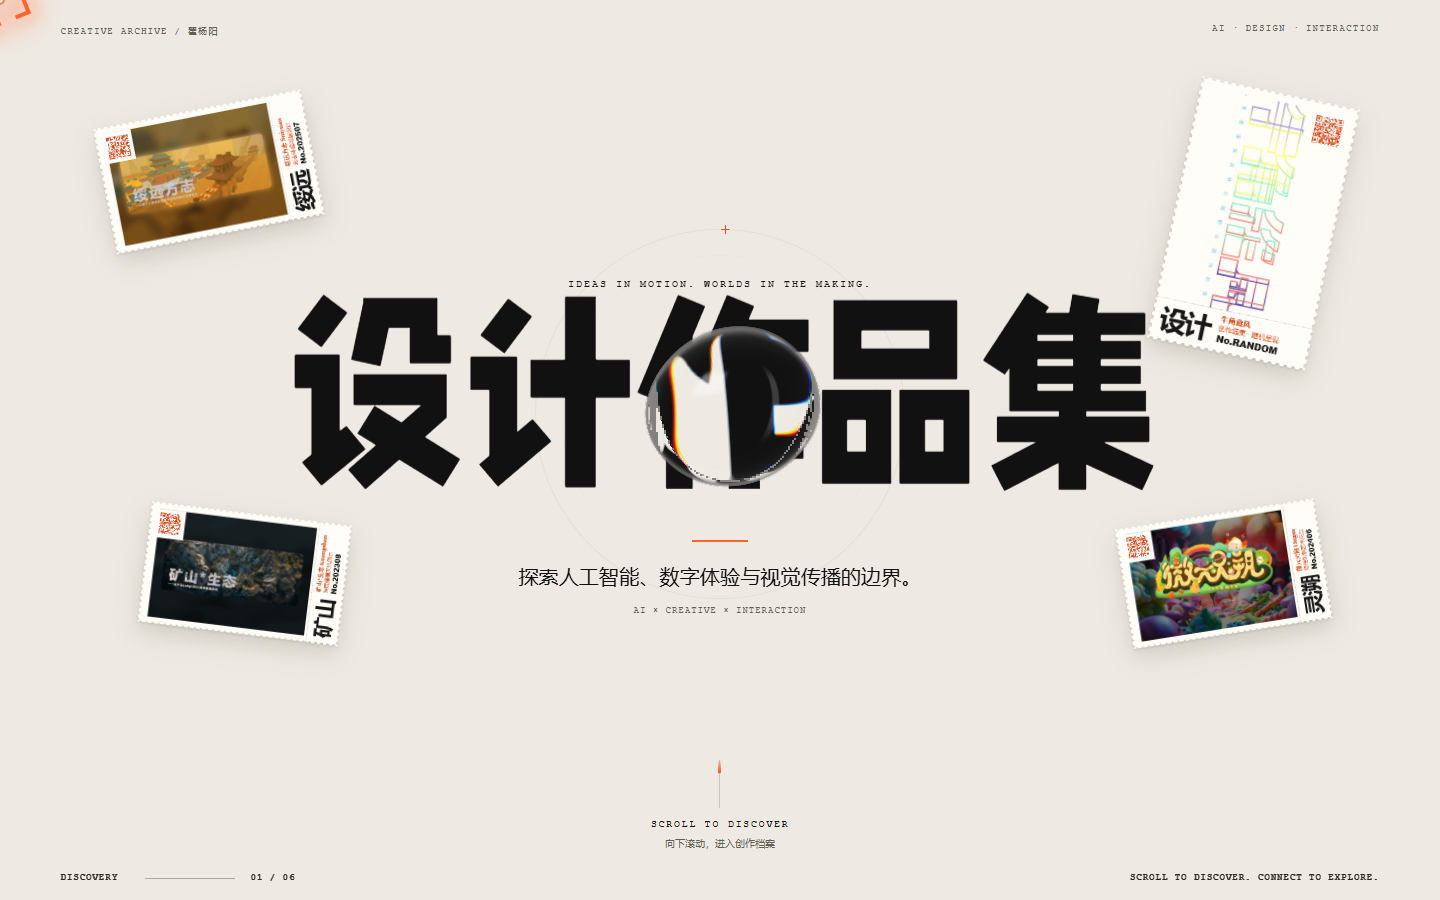
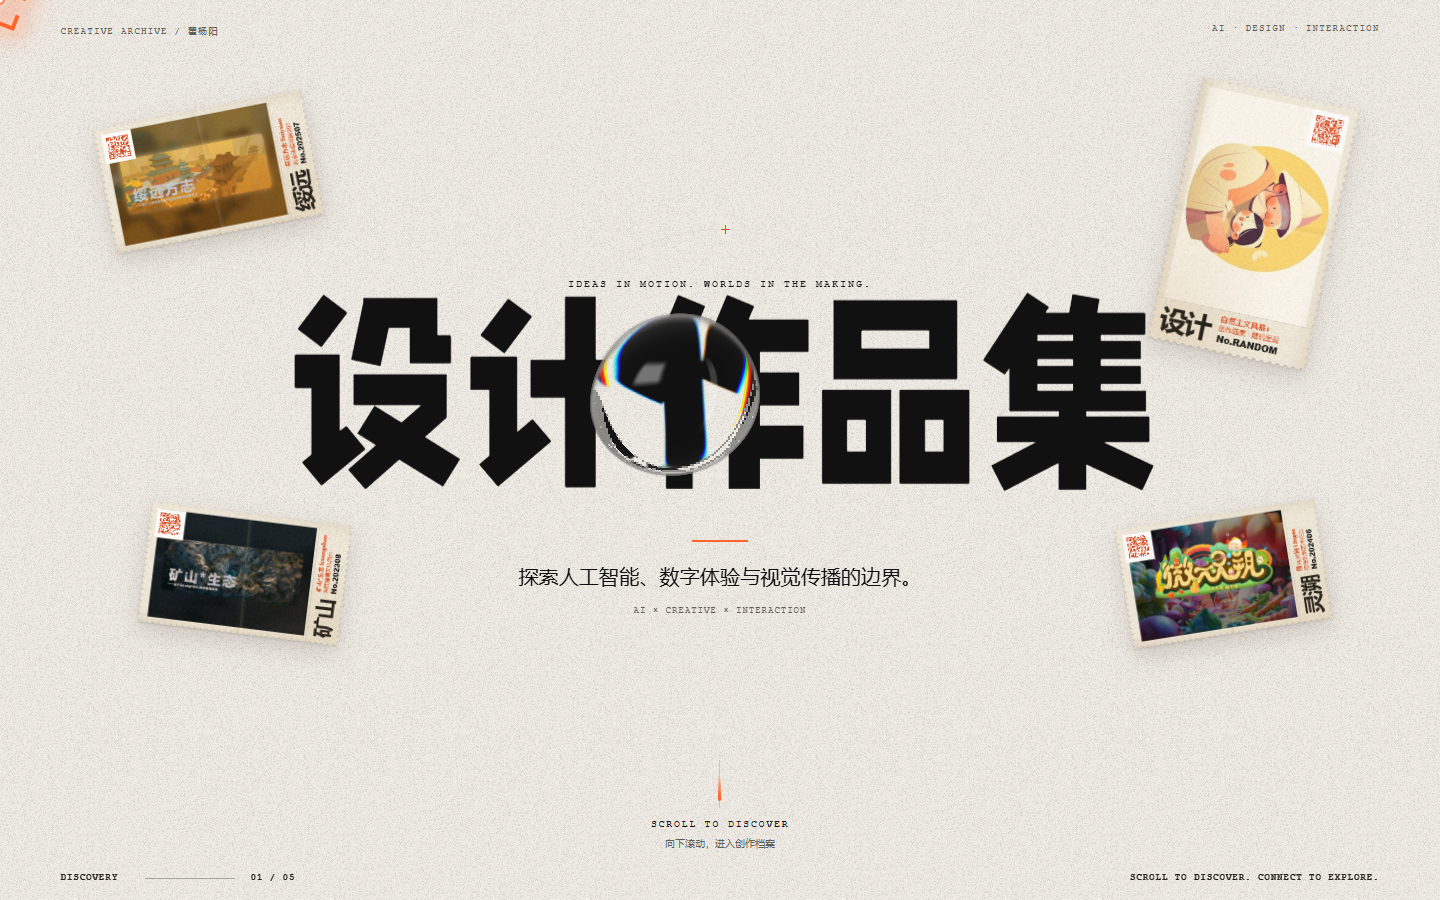
颗粒优化

diff --git a/New/css/background-grain.css b/New/css/background-grain.css
@@ -1,7 +1,39 @@
 /* Grainient's fine-grain pass, baked once rather than redrawn every frame.
    Background painting keeps all text, media and hit targets above the texture. */
-html body :is(.hero-landing, .about, .about-flowing-fields, .journey, .works, .contact) {
+html body :is(
+  .hero-landing, .about, .about-portal, .about-flowing-fields,
+  .flowing-menu, .flowing-menu__item, .flowing-menu__float, .flowing-menu__band,
+  .journey, .journey-overview, .journey-certificate,
+  .works, .work-graph--story .graph-stage, .graph-detail, .graph-detail-link, .graph-mobile-items button,
+  .archive-node-disc, .archive-node strong,
+  .contact, .contact-methods a, .contact-methods button,
+  .showcase--embedded, .site-header
+) {
   background-image: url('../assets/background-grain.png');
   background-size: 256px 256px;
   background-repeat: repeat;
+}
+
+/* The grain follows each clipped paper piece, including the detached stub.
+   A transparent print patina adds wear without replacing the source artwork. */
+.artwork-ticket .tear-ticket__paper {
+  background-color: #f5eddc;
+  background-image: url('../assets/background-grain.png');
+  background-size: 180px 180px;
+}
+.artwork-ticket .tear-ticket__paper::after {
+  content: '';
+  position: absolute;
+  inset: 0;
+  z-index: 2;
+  pointer-events: none;
+  background-image:
+    url('../assets/background-grain.png'),
+    linear-gradient(94deg, #82572420, transparent 12%, transparent 89%, #82572418),
+    radial-gradient(ellipse at 12% 92%, #aa783322, transparent 48%),
+    linear-gradient(178deg, transparent 47%, #795c1612 49.5%, #fff9e51c 50%, transparent 52%);
+  background-size: 180px 180px, 100% 100%, 100% 100%, 100% 100%;
+}
+.hero-card:nth-child(even) .tear-ticket__paper::after {
+  background-position: 73px 41px, center, center, center;
 }

diff --git a/New/js/tests/background-grain.spec.ts b/New/js/tests/background-grain.spec.ts
@@ -7,8 +7,8 @@ for (const width of [375, 1440]) {
     await page.goto('/Portfolio-YoungSliker/New/#contact');
     const contact = page.locator('#contact');
     await contact.scrollIntoViewIfNeeded();
-    for (const selector of ['.hero-landing', '#about', '#journey', '#works', '#contact']) {
-      await expect(page.locator(selector)).toHaveCSS('background-image', /background-grain.*png/);
+    for (const selector of ['.hero-landing', '#about', '.about-portal', '.flowing-menu', '.site-header', '#journey', '#works', '#contact', '.contact-methods a']) {
+      await expect(page.locator(selector).first()).toHaveCSS('background-image', /background-grain.*png/);
     }
     const loaded = await contact.evaluate(async element => {
       const url = getComputedStyle(element).backgroundImage.slice(5, -2);
@@ -24,5 +24,16 @@ for (const width of [375, 1440]) {
     await page.getByRole('button', { name: /浏览体验 · 多设备演示/ }).click();
     await contact.scrollIntoViewIfNeeded();
     await page.screenshot({ path: `test-results/background-grain-${width}.png` });
+    await page.locator('#hero').scrollIntoViewIfNeeded();
+    await expect(page.locator('.artwork-ticket')).toHaveCount(4);
+    for (const ticket of await page.locator('.artwork-ticket').all()) {
+      const patina = await ticket.locator('.tear-ticket__paper').first().evaluate(el => {
+        const style = getComputedStyle(el, '::after');
+        return { texture: style.backgroundImage, events: style.pointerEvents };
+      });
+      expect(patina.texture).toContain('background-grain');
+      expect(patina.events).toBe('none');
+    }
+    await page.screenshot({ path: `test-results/aged-tickets-${width}.png` });
   });
 }
